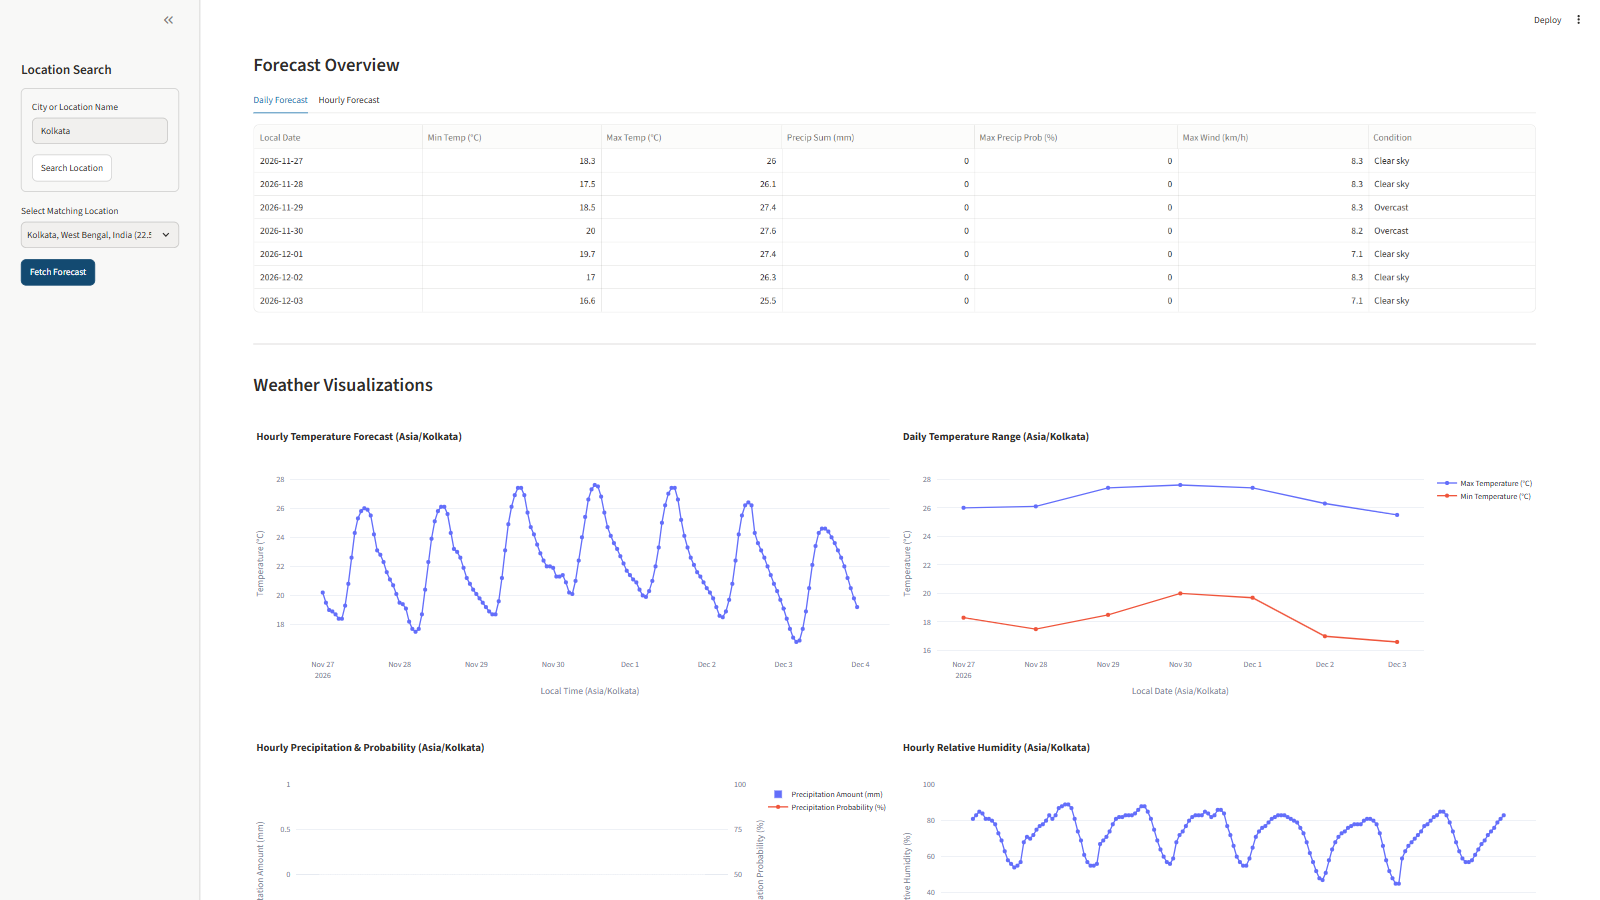
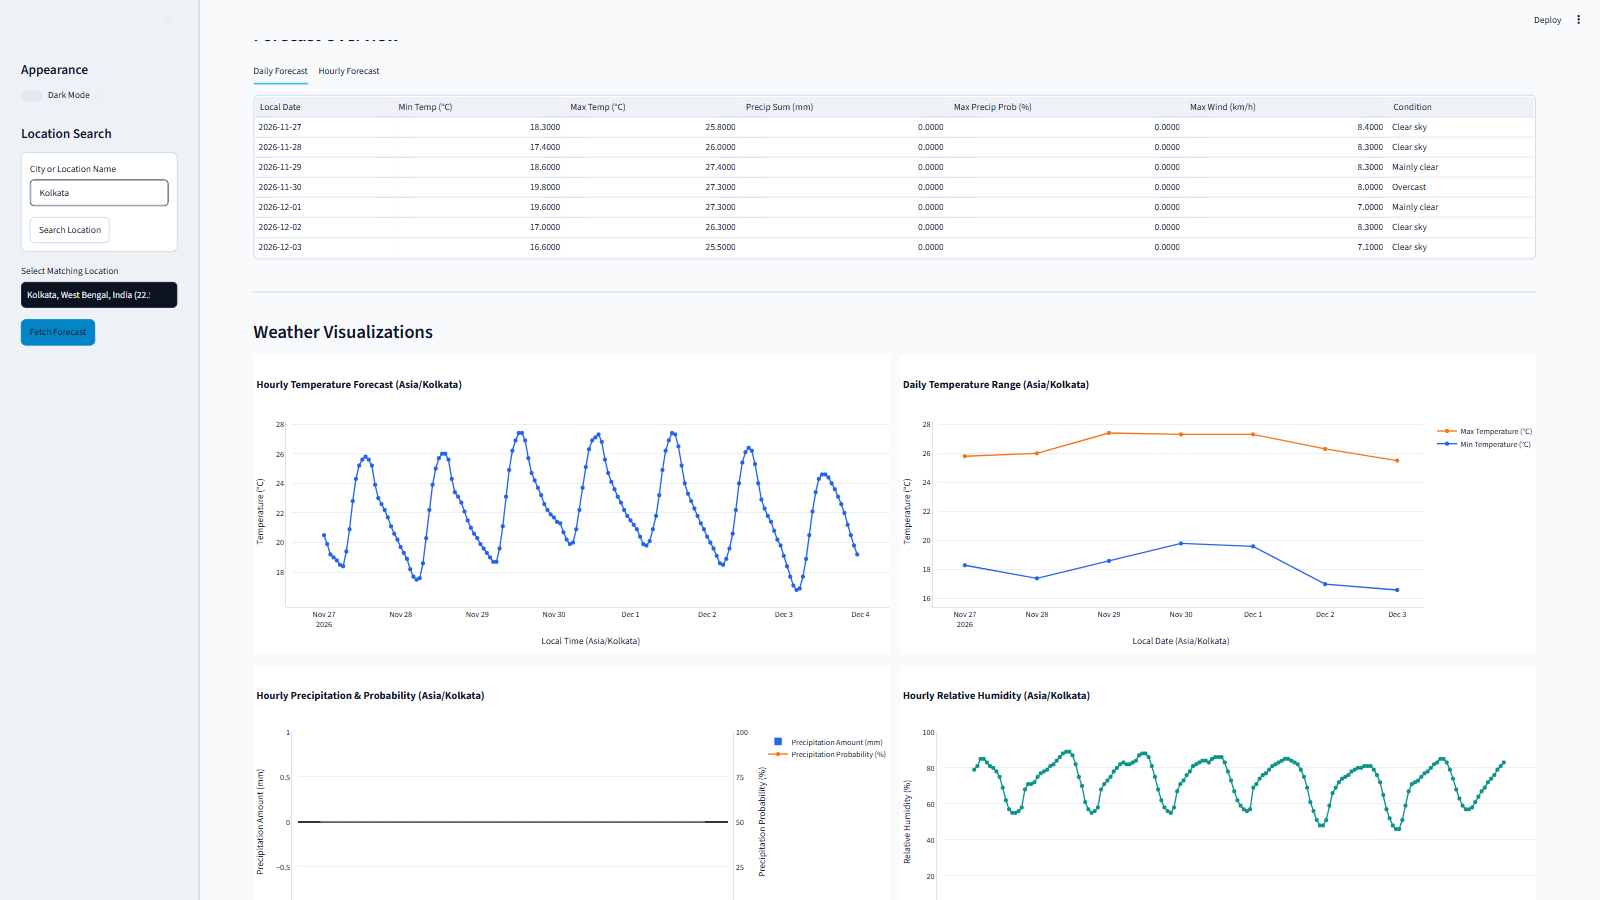
docs(screenshots): replace dashboard captures with light and dark mode galleries

diff --git a/README.md b/README.md
@@ -209,41 +209,70 @@ flowchart TD
 
 ## 11. Streamlit Dashboard
 
+- **Appearance Switcher (Dark Mode Default):** Opens in Dark Mode by default (`.streamlit/config.toml` + `st.session_state["dark_mode"] = True`). A **Dark Mode** toggle under **Appearance** in the sidebar switches immediately between Dark Mode and Light Mode, restyling native Streamlit components and all six Plotly charts without a browser refresh or extra API calls.
 - **Location Search & Selection:** Sidebar form queries the Open-Meteo Geocoding API and lists matching locations.
 - **Explicit Forecast Fetch:** Selecting a location clears any prior forecast; data is fetched only when clicking **Fetch Forecast**.
 - **Current Weather & Forecast Tables:** Displays current metrics and Daily/Hourly forecast tabs using local timestamps.
-- **Visualizations, Advisories & Insights:** Renders six Plotly charts, severity-styled educational advisory banners, and plain-language weather insights.
+- **Visualizations, Advisories & Insights:** Renders six theme-adaptive Plotly charts, severity-styled educational advisory banners, and plain-language weather insights.
 - **Offline Downloads & Error Handling:** Provides four `st.download_button` controls backed by `st.session_state["weather_bundle"]` and displays clear sidebar/page messages for empty queries, unknown locations, timeouts, connection errors, HTTP errors, and malformed JSON.
 
 ---
 
 ## 12. Dashboard Screenshots
 
-All screenshots below were captured from the live Streamlit dashboard at `1600 x 900` pixels (16:9 desktop viewport) using live Open-Meteo data for **Kolkata, West Bengal, India** (`22.56, 88.36`, local time `2026-11-27 04:30`, timezone `Asia/Kolkata`).
+All screenshots below were captured from the live Streamlit dashboard at `1600 x 900` pixels (16:9 desktop viewport) using live Open-Meteo data for **Kolkata, West Bengal, India** (`22.56, 88.36`, local time `2026-11-27 06:00`, timezone `Asia/Kolkata`).
 
-#### Dashboard Overview
+### Dark Mode Dashboard (Default)
 
-![Dashboard overview](images/screenshots/dashboard_overview.png)
+#### Dashboard Overview (Dark Mode)
 
-*Description: Top view of the Streamlit dashboard showing the sidebar location search and selection controls, selected location banner, local timezone, and Current Weather metrics.*
+![Dashboard overview in Dark Mode](images/screenshots/dashboard_overview_dark.png)
 
-#### Forecast Details
+*Description: Default Dark Mode view showing the sidebar Appearance toggle (Dark Mode enabled), location search/selection controls, selected location banner, Current Weather metrics, and the Daily Forecast table.*
 
-![Dashboard forecast details](images/screenshots/dashboard_forecast_details.png)
+#### Forecast Details (Dark Mode)
 
-*Description: Forecast Overview section displaying the Daily Forecast table (with Hourly Forecast tab available) and the top of the Weather Visualizations section.*
+![Dashboard forecast details in Dark Mode](images/screenshots/dashboard_forecast_details_dark.png)
 
-#### Forecast Visualizations
+*Description: Dark Mode Forecast Overview table and upper Weather Visualizations (Hourly Temperature Forecast and Daily Temperature Range) using the `plotly_dark` theme.*
 
-![Dashboard forecast charts](images/screenshots/dashboard_forecast_charts.png)
+#### Weather Visualizations (Dark Mode)
 
-*Description: Weather Visualizations section showing interactive Plotly charts for hourly temperature, daily temperature range, precipitation amount and probability, relative humidity, wind speed, and weather conditions.*
+![Dashboard forecast charts in Dark Mode](images/screenshots/dashboard_forecast_charts_dark.png)
 
-#### Advisories, Insights, and Report Exports
+*Description: Dark Mode interactive Plotly charts for Hourly Precipitation & Probability, Hourly Relative Humidity, Hourly Wind Speed, and Forecast Weather Conditions.*
 
-![Dashboard advisories, insights, and exports](images/screenshots/dashboard_advisories_insights_exports.png)
+#### Weather Advisories, Insights & Exports (Dark Mode)
 
-*Description: Lower dashboard view showing Weather Advisories with educational disclaimer, Weather Insights & Interpretation across categories, and the Export Report download buttons (Hourly CSV, Daily CSV, JSON, and Markdown).*
+![Dashboard advisories, insights, and exports in Dark Mode](images/screenshots/dashboard_advisories_insights_exports_dark.png)
+
+*Description: Dark Mode Weather Advisories banner, categorized Weather Insights & Interpretation, and the Export Report download buttons (Hourly CSV, Daily CSV, JSON, and Markdown).*
+
+### Light Mode Dashboard
+
+#### Dashboard Overview (Light Mode)
+
+![Dashboard overview in Light Mode](images/screenshots/dashboard_overview.png)
+
+*Description: Light Mode view after toggling Dark Mode off in the sidebar without re-fetching data, showing the light background, Current Weather metric cards, and Daily Forecast table.*
+
+#### Forecast Details (Light Mode)
+
+![Dashboard forecast details in Light Mode](images/screenshots/dashboard_forecast_details.png)
+
+*Description: Light Mode Forecast Overview table and upper Weather Visualizations (Hourly Temperature Forecast and Daily Temperature Range) using the `plotly_white` theme.*
+
+#### Weather Visualizations (Light Mode)
+
+![Dashboard forecast charts in Light Mode](images/screenshots/dashboard_forecast_charts.png)
+
+*Description: Light Mode interactive Plotly charts for Hourly Precipitation & Probability, Hourly Relative Humidity, Hourly Wind Speed, and Forecast Weather Conditions.*
+
+#### Weather Advisories, Insights & Exports (Light Mode)
+
+![Dashboard advisories, insights, and exports in Light Mode](images/screenshots/dashboard_advisories_insights_exports.png)
+
+*Description: Light Mode Weather Advisories banner, categorized Weather Insights & Interpretation, and the Export Report download buttons.*
 
 ---
 
@@ -273,7 +302,7 @@ Weather Forecast & Alert Application System/
 ├── docs/                             # Technical architecture, API, user, test, and screenshot guides (...)
 ├── images/
 │   ├── diagrams/.gitkeep             # Reserved for architecture diagrams
-│   └── screenshots/                  # Genuine 1600x900 dashboard screenshots (.gitkeep + 4 PNGs)
+│   └── screenshots/                  # Genuine 1600x900 Light & Dark dashboard screenshots (8 PNGs)
 ├── outputs/                          # Ignored runtime outputs (charts/, exports/, logs/ with .gitkeep)
 ├── reports/README.md                 # Export format documentation
 ├── scripts/
@@ -288,6 +317,7 @@ Weather Forecast & Alert Application System/
 │   ├── reporting/                    # export.py (CSV, JSON, Markdown)
 │   ├── services/                     # weather_service.py, forecast_service.py
 │   ├── storage/                      # database.py (Phase 2 SQLite scaffold)
+│   ├── ui/                           # theme.py (Dark/Light palettes and CSS builder)
 │   ├── utils/                        # date_time.py
 │   └── visualization/                # charts.py (six Plotly chart builders)
 ├── tests/

diff --git a/docs/SCREENSHOT_GUIDE.md b/docs/SCREENSHOT_GUIDE.md
@@ -1,23 +1,32 @@
 # Screenshot Guide
 
 **Author:** Akash Das  
-**Status:** Active (Live Dashboard Screenshots Captured in Phase 12 Stage 2)  
+**Status:** Active (Light & Dark Mode Dashboard Screenshots Captured)  
 **Last Updated:** 2026-11-27
 
 ## 1. Capture Specifications
 - **Application Entry Point:** `.venv\Scripts\python.exe -m streamlit run app.py`
 - **Browser & Viewport:** Google Chrome desktop viewport at `1600 x 900` pixels (16:9 aspect ratio, `deviceScaleFactor: 1`, DevTools closed).
-- **Data Source:** Live **Open-Meteo Forecast API** and **Open-Meteo Geocoding API** data fetched for **Kolkata, West Bengal, India** (`22.56, 88.36`, timezone `Asia/Kolkata`, local observation `2026-11-27 04:30`).
+- **Data Source:** Live **Open-Meteo Forecast API** and **Open-Meteo Geocoding API** data fetched for **Kolkata, West Bengal, India** (`22.56, 88.36`, timezone `Asia/Kolkata`, local observation `2026-11-27 06:00`, `18.4 °C`, `Clear sky`).
 - **Format:** Uncropped PNG files saved under `images/screenshots/`.
 
 ## 2. Screenshot Inventory
 
+### Dark Mode (Default)
 | Filename | Dimensions | Data Type | Dashboard Sections Covered |
 | :--- | :--- | :--- | :--- |
-| `images/screenshots/dashboard_overview.png` | `1600 x 900` | Live Open-Meteo API | Sidebar location search/selection, application header, selected location banner, and **Current Weather** metrics |
-| `images/screenshots/dashboard_forecast_details.png` | `1600 x 900` | Live Open-Meteo API | **Forecast Overview** (Daily and Hourly Forecast tabs/tables) and upper **Weather Visualizations** |
-| `images/screenshots/dashboard_forecast_charts.png` | `1600 x 900` | Live Open-Meteo API | **Weather Visualizations** section displaying the interactive Plotly charts |
-| `images/screenshots/dashboard_advisories_insights_exports.png` | `1600 x 900` | Live Open-Meteo API | **Weather Advisories**, **Weather Insights & Interpretation**, and **Export Report** download controls |
+| `images/screenshots/dashboard_overview_dark.png` | `1600 x 900` | Live Open-Meteo API | Sidebar Appearance toggle (Dark Mode ON), location search/selection, header, Current Weather metrics, Daily Forecast table |
+| `images/screenshots/dashboard_forecast_details_dark.png` | `1600 x 900` | Live Open-Meteo API | Daily Forecast table and upper Weather Visualizations (`plotly_dark`) |
+| `images/screenshots/dashboard_forecast_charts_dark.png` | `1600 x 900` | Live Open-Meteo API | Weather Visualizations Plotly charts (`plotly_dark`) |
+| `images/screenshots/dashboard_advisories_insights_exports_dark.png` | `1600 x 900` | Live Open-Meteo API | Weather Advisories, Weather Insights & Interpretation, and Export Report buttons (Dark Mode) |
+
+### Light Mode
+| Filename | Dimensions | Data Type | Dashboard Sections Covered |
+| :--- | :--- | :--- | :--- |
+| `images/screenshots/dashboard_overview.png` | `1600 x 900` | Live Open-Meteo API | Sidebar Appearance toggle (Dark Mode OFF), location search/selection, header, Current Weather metrics, Daily Forecast table |
+| `images/screenshots/dashboard_forecast_details.png` | `1600 x 900` | Live Open-Meteo API | Daily Forecast table and upper Weather Visualizations (`plotly_white`) |
+| `images/screenshots/dashboard_forecast_charts.png` | `1600 x 900` | Live Open-Meteo API | Weather Visualizations Plotly charts (`plotly_white`) |
+| `images/screenshots/dashboard_advisories_insights_exports.png` | `1600 x 900` | Live Open-Meteo API | Weather Advisories, Weather Insights & Interpretation, and Export Report buttons (Light Mode) |
 
 ## 3. Refreshing Screenshots After UI Changes
 1. Launch the dashboard locally:
@@ -25,7 +34,7 @@
    .venv\Scripts\python.exe -m streamlit run app.py
    ```
 2. Open `http://localhost:8501` in a `1600 x 900` desktop browser window without DevTools or personal bookmarks visible.
-3. Search for a location (for example, `Kolkata`), select a result, and click **Fetch Forecast**.
-4. Wait for all six Plotly charts, advisories, insights, and export buttons to finish rendering.
-5. Capture clean PNGs and overwrite the corresponding files in `images/screenshots/`.
-6. Ensure no API keys, secrets, or personal information appear in any screenshot.
+3. Search for `Kolkata`, select `Kolkata, West Bengal, India`, and click **Fetch Forecast**.
+4. Capture the four Dark Mode PNGs (`*_dark.png`).
+5. Toggle **Dark Mode** off in the sidebar **Appearance** section and capture the four Light Mode PNGs.
+6. Verify all eight PNGs are `1600 x 900`, legible, and free of secrets or personal data.

diff --git a/docs/USER_GUIDE.md b/docs/USER_GUIDE.md
@@ -20,7 +20,8 @@ The **Weather Forecast & Alert Application** retrieves weather forecasts from Op
    ```powershell
    .venv\Scripts\python.exe -m streamlit run app.py
    ```
-2. **Search & Select a Location:** Enter a city or location name in the sidebar search box and click **Search Location**. Choose the matching location from the dropdown list, then click **Fetch Forecast** to load weather data.
+2. **Switch Appearance (Dark / Light Mode):** The dashboard opens in **Dark Mode** by default. Use the **Dark Mode** toggle under **Appearance** in the sidebar to switch between Dark Mode and Light Mode immediately without refreshing the browser or triggering additional weather API requests. Both native Streamlit components and all six Plotly charts update to match the selected mode.
+3. **Search & Select a Location:** Enter a city or location name in the sidebar search box and click **Search Location**. Choose the matching location from the dropdown list, then click **Fetch Forecast** to load weather data.
 3. **Inspect Current Weather & Forecasts:** View current metrics (°C, %, mm, km/h, degrees) and switch between **Daily Forecast** and **Hourly Forecast** tables using local timestamps.
 4. **Explore Visualizations:** Inspect the six interactive Plotly charts (hourly temperature, daily temperature range, precipitation & probability, humidity, wind speed, and weather conditions).
 5. **Review Educational Advisories:** View any triggered threshold advisories (`info`, `advisory`, `warning`). *Note: These are educational advisories, not official meteorological warnings.*
